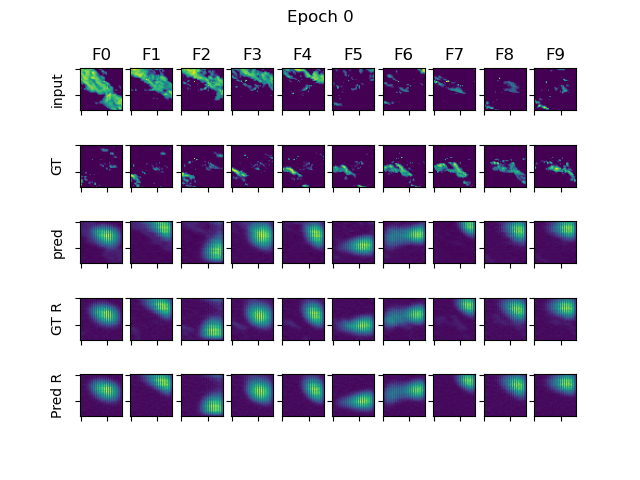
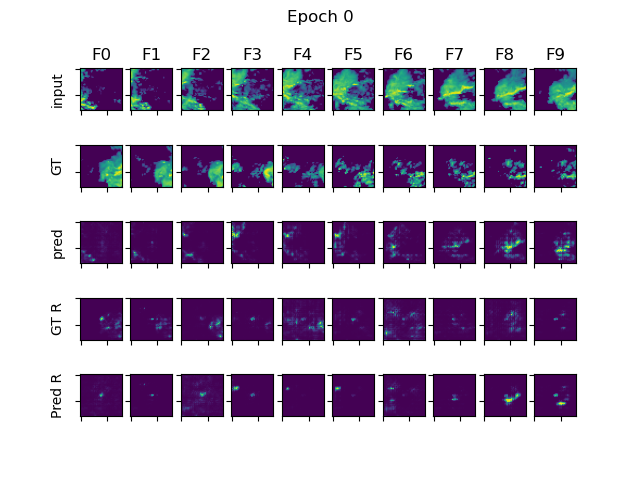
yet another fix

diff --git a/gan/data_loaders/ponte-nova.py b/gan/data_loaders/ponte-nova.py
@@ -53,7 +53,15 @@ class CustomDataModule(LightningDataModule):
 
         print("Train Data Size: {}".format(len(self.train_data)))
 
-        self.transform = t.nn.Sequential(transforms.Normalize(0, 1))
+        self.transform = None
+
+        # min max normalize and map to -1 to 1
+
+        max = t.max(data)
+        min = t.min(data)
+
+        self.train_data = 2 * (self.train_data - min) / (max - min) - 1
+        self.test_data = 2 * (self.test_data - min) / (max - min) - 1
 
         self.train_data = Wrapper(
             self.train_data,
@@ -148,7 +156,7 @@ class Wrapper(Dataset):
 
     def __getitem__(self, idx):
 
-        if transforms is not None:
+        if self.transforms is not None:
             data = self.transforms(self.data[idx])
         else:
             data = self.data[idx]
